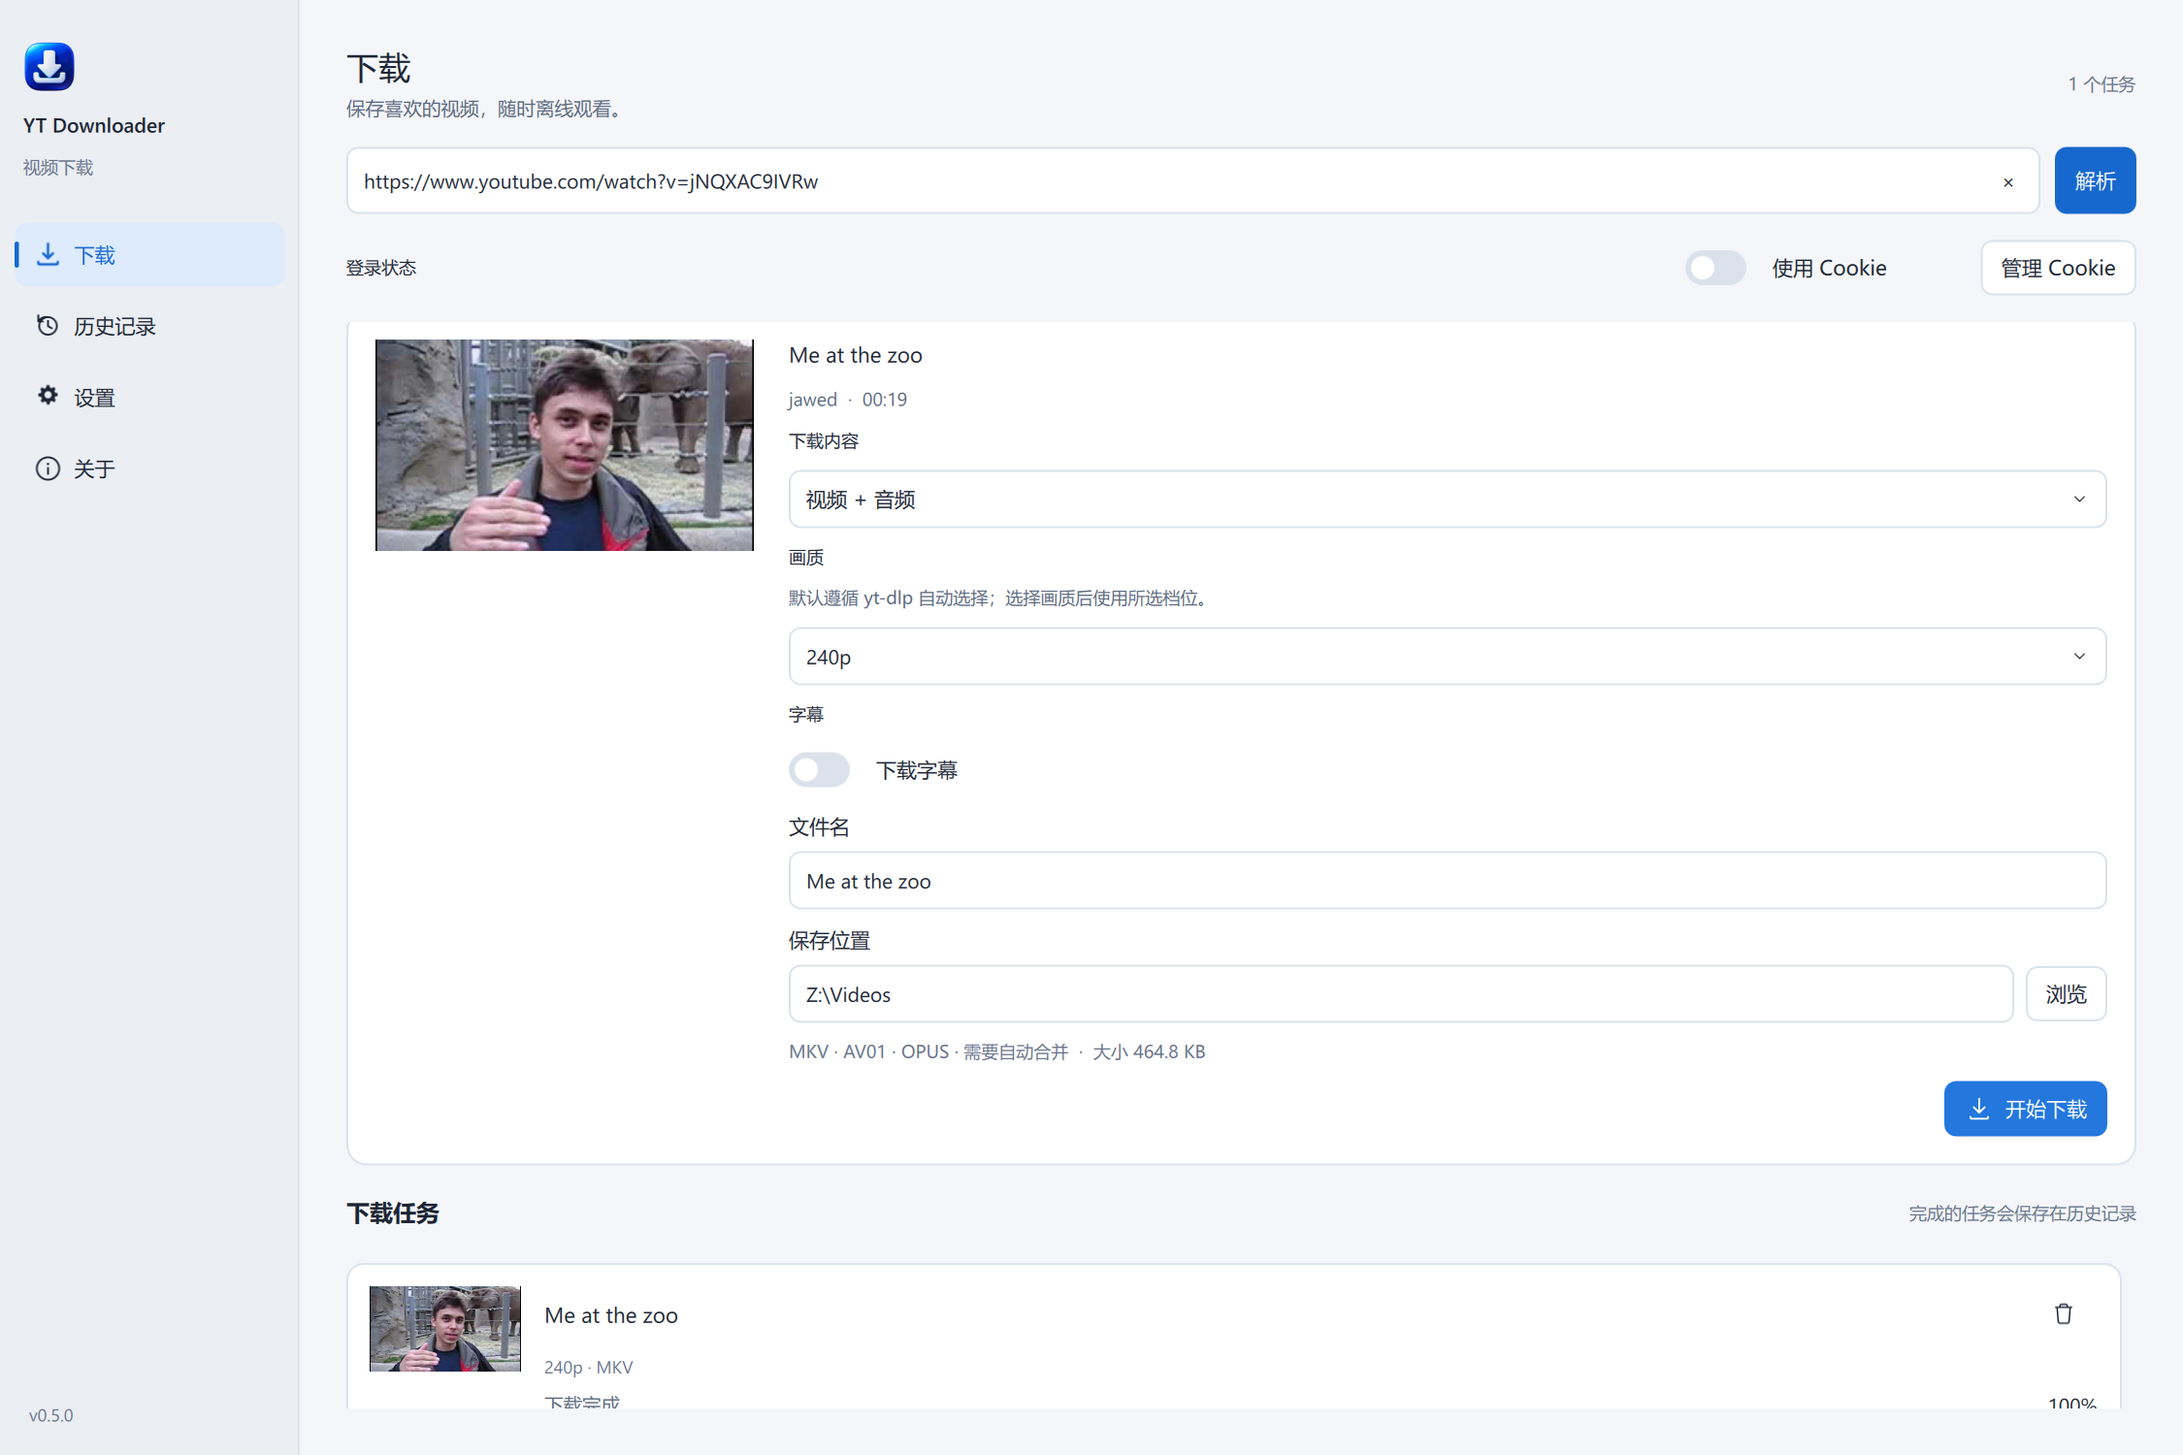
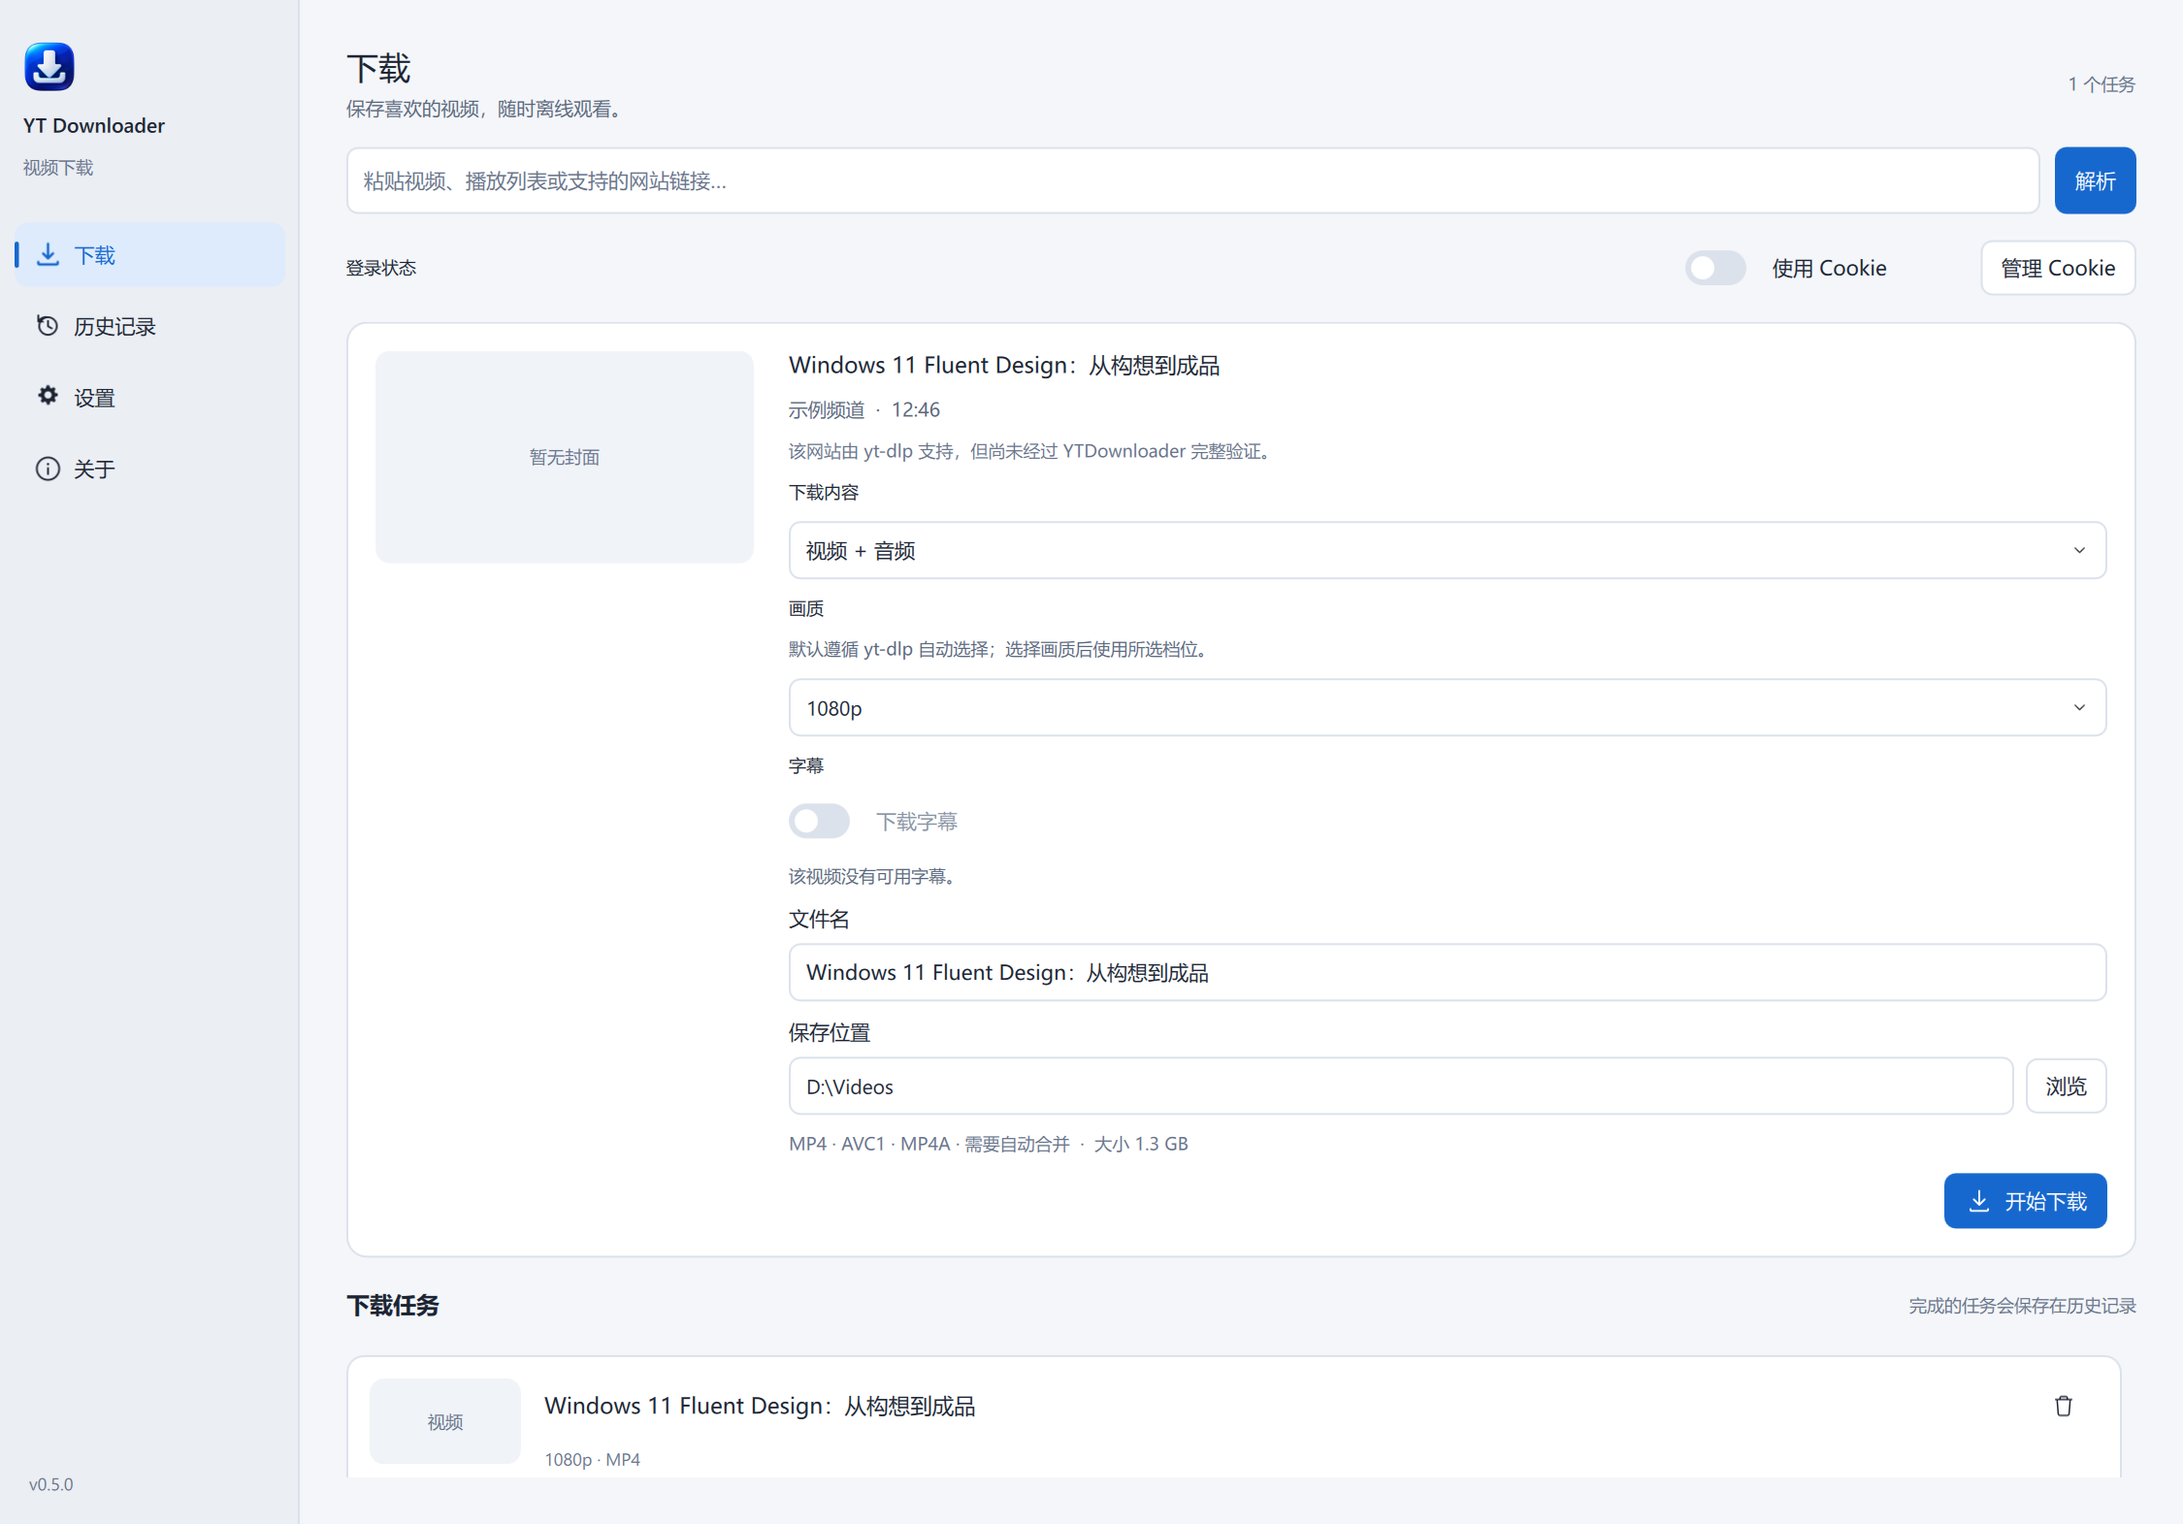
docs: polish v0.5.0 project homepage

diff --git a/README.md b/README.md
@@ -1,74 +1,71 @@
 # YTDownloader
 
-YTDownloader 是面向 Windows 11 的 **yt-dlp 图形化下载器**。它把多站点媒体解析、视频和音频下载、字幕、Cookie 登录、播放列表任务、历史记录与应用内更新整合在一个桌面界面中。网站解析和下载能力来自 yt-dlp；实际可用内容取决于站点、账号权限、网络和媒体本身。
+YTDownloader 是面向 Windows 11 的 yt-dlp 图形化下载器，支持多站点视频与音频、字幕、Cookie 登录、播放列表、任务管理和下载历史。
 
-YTDownloader is a **Windows 11 desktop GUI for yt-dlp**. It brings media resolution, video and audio downloads, subtitles, Cookie-based login, playlist tasks, download history and in-app updates into one desktop application. Site support is provided by yt-dlp and depends on the site, account permissions, network and media restrictions.
+YTDownloader is a Windows 11 desktop downloader powered by yt-dlp, with multi-site video and audio, subtitles, Cookie support, playlists, task controls and download history.
 
-**下载当前 Latest 版本：**[GitHub Releases](https://github.com/kekaodeni/YTDownloader/releases/latest) · **项目主页：**[GitHub](https://github.com/kekaodeni/YTDownloader)
+**[下载最新版](https://github.com/kekaodeni/YTDownloader/releases/latest) · [查看全部版本](https://github.com/kekaodeni/YTDownloader/releases)**
 
-![YTDownloader v0.5.0 浅色下载页：实时解析信息、Cookie 开关、画质、字幕、文件名、保存位置和完成任务](docs/images/v0.5.0-download-light.png)
+![YTDownloader 下载页浅色主题；应用内置演示数据，不含真实视频或用户信息](docs/images/v0.5.0-download-light.png)
 
-![YTDownloader v0.5.0 深色账户与 Cookie 设置页](docs/images/v0.5.0-cookie-dark.png)
+![YTDownloader 下载页深色主题；与浅色图为同一演示状态](docs/images/v0.5.0-showcase-dark.png)
 
 ## 主要功能
 
-- **多站点解析：**接收合法 HTTP/HTTPS 链接，由 yt-dlp extractor 判断支持情况。YouTube、Bilibili 和 X/Twitter 的代表性下载链路经过实际验证；单条内容、账号和网络条件可能不同。
-- **视频和音频：**支持视频+音频、仅视频和仅音频模式。默认遵循 yt-dlp 原生格式选择；需要时可选择界面提供的清晰度。仅音频可保留原格式，或转换为 M4A、MP3、Opus、FLAC。
-- **播放列表与批量任务：**解析后由用户选择项目；任务共享并发队列，支持暂停、继续、取消和仅重试失败项。可同时运行 1–4 个任务。
-- **字幕：**人工字幕和自动字幕仅在目标网站提供且 yt-dlp 能获取时显示。没有可用字幕时，下载字幕选项会禁用；可选择 SRT/VTT，并在媒体容器和工具条件支持时内嵌。
-- **Cookie 登录：**下载页提供一个“使用 Cookie”开关。开启后应用根据链接域名匹配设置页中的配置；支持受支持浏览器的 Cookie 来源（包括 Firefox）和 Netscape 格式 `cookies.txt`。应用不要求网站账号密码，也不把 Cookie 内容保存到配置中或写回来源文件。
-- **文件与历史：**每个任务可编辑文件名和保存位置。SQLite 历史记录可用于查看、重试解析和管理记录；删除记录不会删除已下载媒体。
-- **桌面体验：**浅色和深色主题、高 DPI 缩放、键盘焦点、辅助功能标签，以及下载进度、速度和预计剩余时间。
-- **应用内更新：**更新包使用 Ed25519 签名 manifest 和 SHA-256 校验；安装前需用户确认，更新器执行启动健康确认，并在失败时恢复旧安装。
+- **多站点解析：** 基于 yt-dlp 解析受支持的网站链接；YouTube、Bilibili 和 X/Twitter 已完成代表性下载验收。
+- **视频与音频：** 支持视频 + 音频、仅视频和仅音频，可选择可用清晰度；音频可保留原格式，或转换为 M4A、MP3、Opus 和 FLAC。
+- **播放列表与批量任务：** 解析后选择要下载的项目；任务支持暂停、继续、取消、重试和并发处理。
+- **字幕：** 查看可用的人工字幕和自动字幕，选择语言与 SRT/VTT 格式；没有可用字幕时，下载选项会禁用。
+- **Cookie 登录：** 可配置浏览器或 `cookies.txt` 来源，下载时按网站匹配；Cookie 默认关闭。
+- **下载历史：** 查看、重试和管理任务记录；删除记录不会删除已下载的媒体文件。
+- **桌面体验：** 提供浅色与深色主题、高 DPI 界面、下载进度、速度和预计剩余时间。
+- **应用内更新：** 验证更新签名和文件完整性；安装前由用户确认，失败时支持恢复。
 
 ## 支持站点与限制
 
-解析器主要使用 yt-dlp 提供的 extractor，不维护一份限制所有输入的固定网站白名单。这里的验证等级描述 YTDownloader 的实际验收范围，并不保证站点上的每条内容都可下载。
+网站支持由 yt-dlp 提供，不保证每条内容都可访问或下载。验证等级说明 YTDownloader 已测试的范围：
 
-| 范围 | 当前说明 |
+| 网站 | 验证情况 |
 | --- | --- |
-| YouTube、Bilibili | 重点验证的解析与下载站点；部分内容需要用户已有的登录 Cookie。 |
-| X / Twitter | 已对代表性内容完成有声视频下载验收；受保护内容需要可用的登录状态，具体帖子仍由 yt-dlp 和站点决定。 |
-| Vimeo | 媒体元数据解析已验证，下载兼容性为实验性。登录要求、HTTP 401/403、地区策略或 DRM 可能阻止下载；应用不会绕过这些限制。 |
-| 其他 yt-dlp extractor | 实验性支持。只要 extractor 能解析，应用会允许用户尝试下载，并显示相应兼容性提示。 |
+| YouTube、Bilibili | 已完成代表性解析与下载验证；部分内容需要用户自己的登录 Cookie。 |
+| X / Twitter | 已完成代表性有声视频下载验证；受保护内容需要有效登录状态。 |
+| Vimeo | 媒体信息解析已验证，下载为实验性；登录要求、HTTP 401/403、地区限制或 DRM 都可能阻止下载。 |
+| 其他 yt-dlp 网站 | 实验性支持；解析成功后仍可尝试下载。 |
 
-站点可能改变接口、格式或访问策略。请只下载您有权保存和使用的内容，并遵守当地法律及网站服务条款。本项目与这些媒体网站无关联。
+站点可能调整接口和访问策略。请只下载您有权保存和使用的内容，并遵守当地法律及网站服务条款。本项目与这些网站无关联。
 
 ## 下载与使用
 
-从 [GitHub Latest Release](https://github.com/kekaodeni/YTDownloader/releases/latest) 下载 Windows x64 ZIP，解压后启动 `YTDownloader.exe`。应用以便携 ZIP 分发，不提供传统安装器；用户设置、Cookie 配置引用和历史记录保存在当前 Windows 用户的本地应用数据目录中。
+从 [下载最新版](https://github.com/kekaodeni/YTDownloader/releases/latest) 获取 Windows x64 ZIP，解压后启动 `YTDownloader.exe`。应用以便携 ZIP 分发，不提供传统安装器；设置和历史记录保存在当前 Windows 用户的本地应用数据目录中。
 
 1. 粘贴视频、播放列表或支持的网站链接并解析。
-2. 选择视频+音频、仅视频或仅音频，以及可用的清晰度和字幕。
-3. 需要登录时，在设置页添加浏览器或 `cookies.txt` 来源；回到下载页打开“使用 Cookie”。应用会按网站匹配配置。
-4. 检查文件名和保存位置，然后开始下载。
+2. 选择下载内容、清晰度和可用字幕。
+3. 需要登录时，在设置页添加浏览器或 `cookies.txt` 来源，再在下载页打开“使用 Cookie”。
+4. 确认文件名和保存位置，然后开始下载。
 
 ## Cookie 与隐私
 
-Cookie 代表网站登录状态，属于敏感凭据。只配置自己有权使用的浏览器会话或 Cookie 文件。应用保存配置引用和网站匹配信息，不保存网站账号密码，不复制浏览器 Cookie 数据库，也不修改所选 `cookies.txt` 文件。Cookie 默认关闭；关闭开关后任务不使用 Cookie。
+Cookie 属于敏感登录凭据。只配置自己有权使用的浏览器会话或 Cookie 文件。应用保存来源引用和网站匹配信息，不保存网站账号密码、不复制浏览器 Cookie 数据库，也不会修改所选 `cookies.txt` 文件。关闭“使用 Cookie”后，任务不会使用 Cookie。
 
-浏览器 Cookie 是否可读取，取决于浏览器版本、用户配置文件是否可访问，以及 Windows 的加密和权限状态。读取失败时请检查浏览器状态和配置来源；不要把 Cookie 文件、浏览器配置目录或错误日志发到公开位置。
+浏览器 Cookie 是否可读取，取决于浏览器配置、Windows 加密和访问权限。读取失败时请检查浏览器状态和来源配置；不要公开分享 Cookie 文件、浏览器配置目录或包含敏感信息的错误日志。
 
 ## 字幕
 
-人工字幕与自动生成字幕是不同来源，界面会分别显示。应用只展示当前 extractor 能获取的字幕轨；如果网站没有提供或 yt-dlp 无法读取，字幕选项会保持禁用。用户启用字幕后可选择语言和 SRT/VTT 格式；支持的容器与媒体模式可提供内嵌选项。字幕下载或内嵌失败不会删除已完成的视频。
+人工字幕和自动生成字幕会分别显示。只有目标网站提供且 yt-dlp 能获取的字幕才会出现在选项中；没有可用字幕时，字幕下载保持禁用。可用时可选择语言和 SRT/VTT 格式；字幕下载或内嵌失败不会删除已完成的视频。
 
-## 版本与自动更新
+## 自动更新
 
-v0.5.0 使用 schema 2 / updater protocol 2；标准包将 updater 放在内部目录，根目录不包含 updater EXE。更新发现会检查 Releases 列表并选择最高兼容的稳定版本，而不依赖 GitHub Latest。签名验证、包哈希校验、独立 staging、启动健康回执和回滚共同保护更新事务。
+应用会验证更新包的签名与完整性，并在用户确认后安装。更新过程包含启动健康检查；如果新版本无法正常启动，会恢复原安装。v0.4.2 是旧版客户端迁移到新更新架构所需的历史桥接版本，其 tag、Release 和资产均保留。
 
-v0.4.2 是历史 updater bridge，用于帮助旧 v0.4.1 安装迁移到新更新架构。其 tag、Release 和资产作为历史兼容版本保留。
+## 已知限制
 
-## 环境与已知限制
+- 需要 Windows 11 x64；从源码运行需要 Python 3.12 或更新版本。
+- 发布 ZIP 携带 yt-dlp、Deno、FFmpeg 和 ffprobe；应用不会静默下载这些运行组件，也不会读取系统级 yt-dlp 配置。
+- 账号权限、地区、网络、DRM 和源站策略可能影响解析或下载；应用不会绕过这些限制。
+- 播放列表最多展示 1000 项。暂停不会强制中断正在运行的 FFmpeg 或媒体处理阶段。
+- 发布 ZIP 未使用 Windows Authenticode 代码签名，也不提供传统安装器；Windows 可能显示未知发布者提示。
 
-- Windows 11 x64；从源码运行需要 Python 3.12 或更新版本。
-- 发布 ZIP 携带锁定版本的 yt-dlp、Deno、FFmpeg 和 ffprobe；应用不会静默下载这些运行组件，也不会读取用户机器上的 yt-dlp 全局配置。
-- 下载结果受源站、账号权限、地区和网络影响。DRM 或访问权限限制不会被绕过。
-- 播放列表最多展示 1000 项。暂停操作不会强行中断正在运行的 FFmpeg 或媒体处理阶段。
-- 字幕内嵌、视频流合并和容器转换取决于所选媒体格式及随软件提供的工具。
-- 发布 ZIP 没有 Windows Authenticode 代码签名或传统安装器；Windows 可能显示未知发布者提示。
-
-## 开发运行
+## 从源码运行
 
 ```powershell
 git clone https://github.com/kekaodeni/YTDownloader.git
@@ -80,26 +77,24 @@ python -m venv .venv
 .\.venv\Scripts\python.exe -m yt_downloader
 ```
 
-开发工具脚本会按 `tools.lock.json` 中的 URL 和 SHA-256 获取锁定的 Deno、FFmpeg 与 ffprobe。不要把 Cookie、浏览器配置文件或个人下载目录提交到仓库。
+开发工具脚本按 `tools.lock.json` 中的 URL 和 SHA-256 获取锁定的 Deno、FFmpeg 与 ffprobe。不要将 Cookie、浏览器配置文件或个人下载目录提交到仓库。
 
-## 测试
+## 测试与打包
+
+运行测试：
 
 ```powershell
 .\.venv\Scripts\python.exe -m pytest
 ```
 
-普通测试使用隔离数据和网络替身；需访问网站的 smoke test 是独立步骤，不属于 `pytest` 默认测试集。运行前请先确认目标网站和内容适合匿名测试，并单独指定临时报告路径。
-
-## 打包
-
-先按“开发运行”准备 Python 环境和锁定工具，然后运行 validation-only 构建：
+需要 validation-only 构建时运行：
 
 ```powershell
 .\scripts\build.ps1 -ValidationOnly
 ```
 
-该命令会运行完整 pytest、生成隔离的 Windows GUI 程序、检查归档并输出 validation-only ZIP；validation-only 包不能执行正式安装更新。正式生产包需要独立验收报告、已配置的生产公钥和经授权的签名流程，不应使用此命令生成正式签名资产。
+validation-only 包不能执行正式安装更新。正式生产包需要独立验收报告、生产公钥和经授权的签名流程；不要使用 validation-only 包作为正式发布资产。
 
 ## 许可与第三方组件
 
-本项目使用 MIT License，见 [LICENSE](LICENSE)。应用分发 yt-dlp、PySide6、Deno 与 FFmpeg 等第三方组件；其许可、版本和源码信息随分发文件提供。项目维护的说明见 [THIRD_PARTY_NOTICES.md](THIRD_PARTY_NOTICES.md)、[FFmpeg 来源与许可](licenses/FFMPEG-SOURCE.txt) 和 [工具锁文件](tools.lock.json)。
+本项目使用 MIT License，见 [LICENSE](LICENSE)。第三方组件的许可和来源信息见 [THIRD_PARTY_NOTICES.md](THIRD_PARTY_NOTICES.md)、[FFmpeg 来源与许可](licenses/FFMPEG-SOURCE.txt) 和 [工具锁文件](tools.lock.json)。
